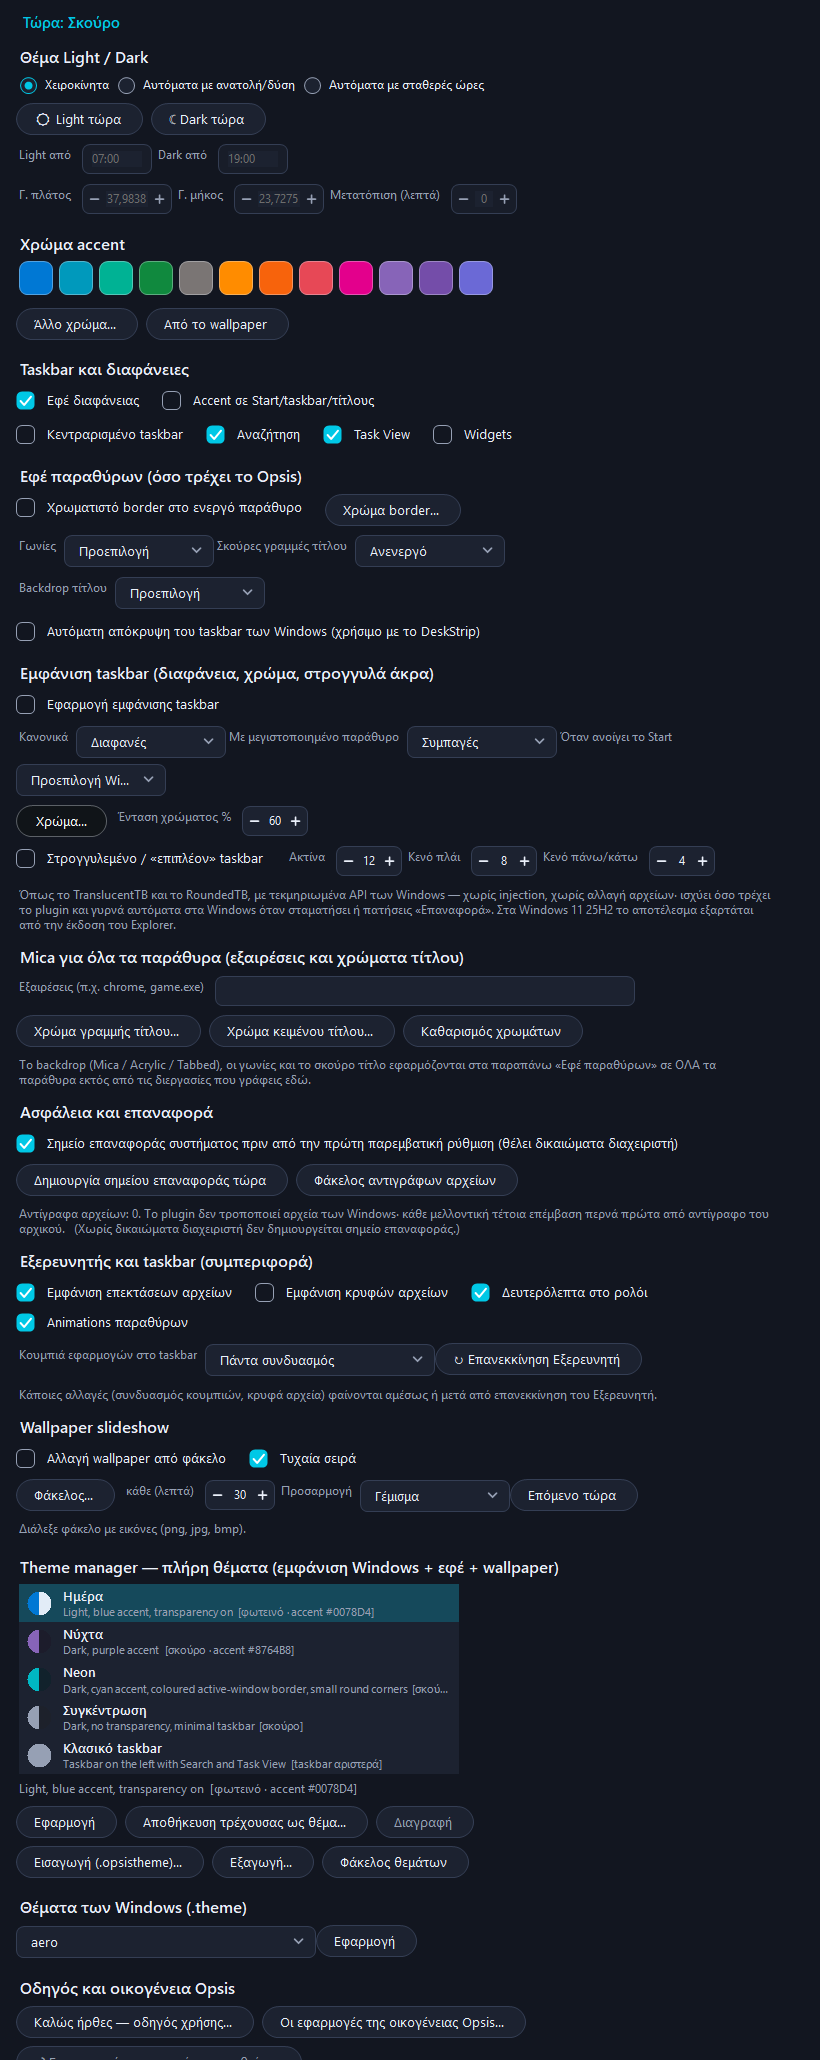
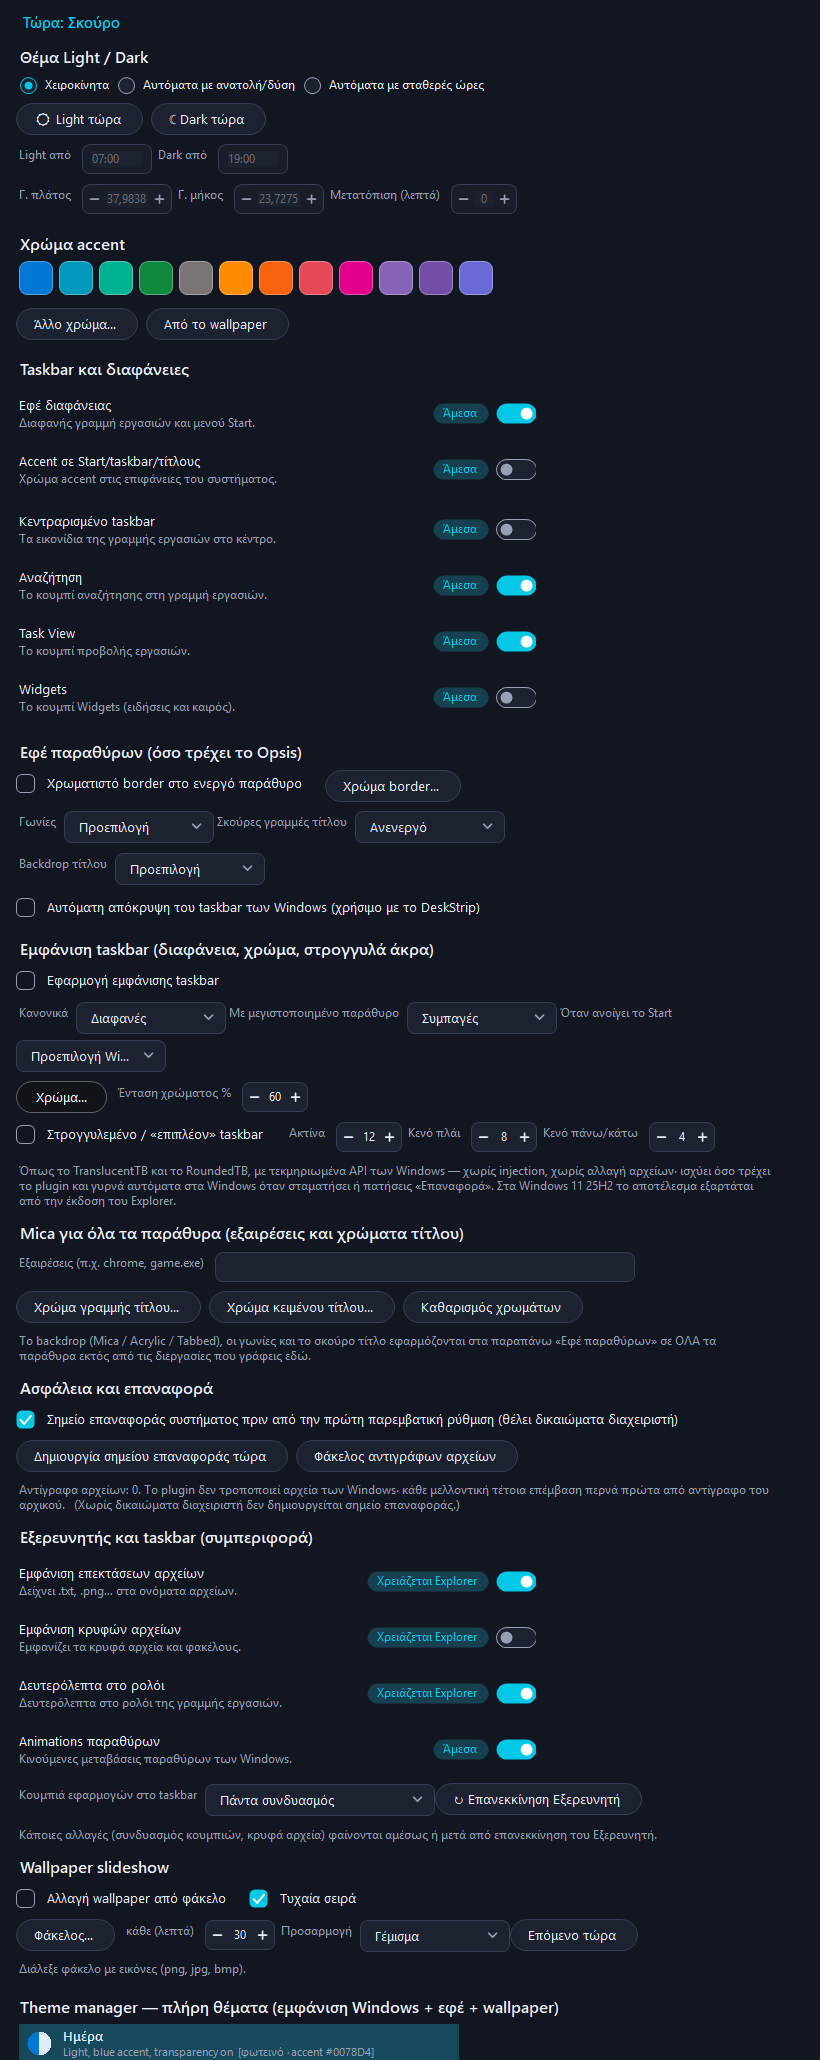
Appearance: Windows 11 style toggle rows with descriptions and immediate/restart badges

Changed region(s): [[0.0, 0.1864, 0.9451, 1.0], [0.4268, 0.1864, 0.6707, 0.3728]]

diff --git a/src/OpsisAppearance.Plugin/AppearancePlugin.cs b/src/OpsisAppearance.Plugin/AppearancePlugin.cs
@@ -350,7 +350,7 @@ internal sealed class AppearancePage : UserControl
     private readonly OpsisNumeric _lat = new() { DecimalPlaces = 4, Minimum = -90, Maximum = 90, Width = 90 }, _lon = new() { DecimalPlaces = 4, Minimum = -180, Maximum = 180, Width = 90 }, _offset = new() { Minimum = -180, Maximum = 180, Width = 64 };
     private readonly FlowLayoutPanel _swatches = new() { AutoSize = true, MaximumSize = new Size(760, 0), WrapContents = true };
     private readonly FlatButton _pick = new(), _fromWall = new();
-    private readonly FlatCheckBox _transp = new(), _accentSurf = new(), _centered = new(), _search = new(), _taskView = new(), _widgets = new();
+    private readonly FlatToggle _transp = new(), _accentSurf = new(), _centered = new(), _search = new(), _taskView = new(), _widgets = new();
     private readonly ListBox _themeList = new() { IntegralHeight = false, Height = 190, Width = 440, BorderStyle = BorderStyle.None, DrawMode = DrawMode.OwnerDrawFixed, ItemHeight = 38 };
     private readonly Label _themeInfo = new() { AutoSize = true, MaximumSize = new Size(760, 0) };
     private readonly FlatButton _themeApply = new(), _themeSave = new(), _themeDelete = new(), _themeImport = new(), _themeExport = new(), _themeFolder = new(), _winThemeApply = new(), _restore = new();
@@ -364,7 +364,8 @@ internal sealed class AppearancePage : UserControl
     private readonly FlatComboBox _corners = new() { Width = 150 }, _titleBars = new() { Width = 150 }, _backdrop = new() { Width = 150 };
     private readonly Label _tCorners = new(), _tTitle = new(), _tBackdrop = new();
     private readonly Label _hShell = new(), _hSlide = new(), _tCombine = new(), _tSlideEvery = new(), _tSlideStyle = new(), _slideInfo = new() { AutoSize = true, MaximumSize = new Size(760, 0) }, _tShellNote = new();
-    private readonly FlatCheckBox _fileExt = new(), _hiddenFiles = new(), _clockSecs = new(), _animations = new(), _slideOn = new(), _slideShuffle = new();
+    private readonly FlatToggle _fileExt = new(), _hiddenFiles = new(), _clockSecs = new(), _animations = new();
+    private readonly FlatCheckBox _slideOn = new(), _slideShuffle = new();
     private readonly FlatComboBox _combine = new() { Width = 230 }, _slideStyle = new() { Width = 150 };
     private readonly OpsisNumeric _slideMin = new() { Minimum = 1, Maximum = 1440, Width = 70, Value = 30 };
     private readonly FlatButton _slideFolder = new(), _slideNext = new(), _restartExplorer = new();
@@ -807,6 +808,19 @@ internal sealed class AppearancePage : UserControl
         _hShell.Text = T("Εξερευνητής και taskbar (συμπεριφορά)", "Explorer & taskbar (behaviour)");
         _fileExt.Text = T("Εμφάνιση επεκτάσεων αρχείων", "Show file extensions"); _hiddenFiles.Text = T("Εμφάνιση κρυφών αρχείων", "Show hidden files");
         _clockSecs.Text = T("Δευτερόλεπτα στο ρολόι", "Seconds in the clock"); _animations.Text = T("Animations παραθύρων", "Window animations");
+        // Γραμμές τύπου Windows 11: ετικέτα + μία πρόταση περιγραφής + ένδειξη «άμεσα / χρειάζεται επανεκκίνηση του Explorer» (κοινό Opsis.UI.FlatToggle)
+        string now = T("Άμεσα", "Immediate"), restart = T("Χρειάζεται Explorer", "Needs Explorer restart");
+        void Row(FlatToggle t, string el, string en, string badge) { t.Description = T(el, en); t.Badge = badge; }
+        Row(_transp, "Διαφανής γραμμή εργασιών και μενού Start.", "Translucent taskbar and Start menu.", now);
+        Row(_accentSurf, "Χρώμα accent στις επιφάνειες του συστήματος.", "Accent colour on system surfaces.", now);
+        Row(_centered, "Τα εικονίδια της γραμμής εργασιών στο κέντρο.", "Taskbar icons in the centre.", now);
+        Row(_search, "Το κουμπί αναζήτησης στη γραμμή εργασιών.", "The search button on the taskbar.", now);
+        Row(_taskView, "Το κουμπί προβολής εργασιών.", "The Task View button.", now);
+        Row(_widgets, "Το κουμπί Widgets (ειδήσεις και καιρός).", "The Widgets button (news and weather).", now);
+        Row(_fileExt, "Δείχνει .txt, .png… στα ονόματα αρχείων.", "Shows .txt, .png… in file names.", restart);
+        Row(_hiddenFiles, "Εμφανίζει τα κρυφά αρχεία και φακέλους.", "Shows hidden files and folders.", restart);
+        Row(_clockSecs, "Δευτερόλεπτα στο ρολόι της γραμμής εργασιών.", "Seconds in the taskbar clock.", restart);
+        Row(_animations, "Κινούμενες μεταβάσεις παραθύρων των Windows.", "Animated Windows window transitions.", now);
         _tCombine.Text = T("Κουμπιά εφαρμογών στο taskbar", "Taskbar buttons");
         _restartExplorer.Text = T("↻ Επανεκκίνηση Εξερευνητή", "↻ Restart Explorer");
         _tShellNote.Text = T("Κάποιες αλλαγές (συνδυασμός κουμπιών, κρυφά αρχεία) φαίνονται αμέσως ή μετά από επανεκκίνηση του Εξερευνητή.", "Some changes (button grouping, hidden files) apply at once or after Explorer is restarted.");
